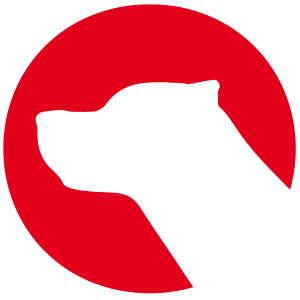
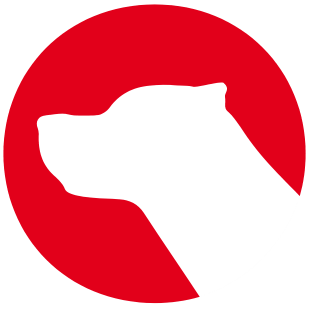
More art changes and adding a documentation topic that links our art

diff --git a/Docs/Logos.md b/Docs/Logos.md
@@ -1,0 +1,115 @@
+# KavaDocs Logos and Art Assets
+
+## Color Definitions
+
+Standard CSS Color definition:
+
+```css
+{
+    color: #E2001A; // KavaDocs Red
+    color: #1A181C; // KavaDocs Black
+    color: #00ADEE; // KavaDocs Blue
+}
+```
+
+## Site Icon
+
+<div style="background: repeating-linear-gradient(45deg, #dddddd, #dddddd 10px, #eeeeee 10px, #eeeeee 20px); padding: 20px;">
+
+![](Assets/SiteIcon.png)
+
+</div>
+
+## Square Head Logo - Black
+
+<div style="background: repeating-linear-gradient(45deg, #dddddd, #dddddd 10px, #eeeeee 10px, #eeeeee 20px); padding: 20px;">
+
+![](Assets/kavadocs-head-black-600.png)![](Assets/kavadocs-head-black-300.png)![](Assets/kavadocs-head-black-150.png)
+
+</div>
+
+## Square Head Logo - Red
+
+<div style="background: repeating-linear-gradient(45deg, #dddddd, #dddddd 10px, #eeeeee 10px, #eeeeee 20px); padding: 20px;">
+
+![](Assets/kavadocs-head-red-600.png)![](Assets/kavadocs-head-red-300.png)![](Assets/kavadocs-head-red-150.png)
+
+</div>
+
+## Square Head Logo - White
+
+<div style="background: repeating-linear-gradient(45deg, #dddddd, #dddddd 10px, #eeeeee 10px, #eeeeee 20px); padding: 20px;">
+
+![](Assets/kavadocs-head-white-600.png)![](Assets/kavadocs-head-white-300.png)![](Assets/kavadocs-head-white-150.png)
+
+</div>
+
+## KavaDocs - 1 Line - Red/Black
+
+<div style="background: repeating-linear-gradient(45deg, #dddddd, #dddddd 10px, #eeeeee 10px, #eeeeee 20px); padding: 20px; margin-bottom: 20px;">
+
+![](Assets/kavadocs-red-black-1line-540.png)
+
+</div>
+
+<div style="background: repeating-linear-gradient(45deg, #dddddd, #dddddd 10px, #eeeeee 10px, #eeeeee 20px); padding: 20px;">
+
+![](Assets/kavadocs-red-black-1line-1080.png)
+
+</div>
+
+## KavaDocs - 2 Lines - Red/Black
+
+<div style="background: repeating-linear-gradient(45deg, #dddddd, #dddddd 10px, #eeeeee 10px, #eeeeee 20px); padding: 20px; margin-bottom: 20px;">
+
+![](Assets/kavadocs-red-black-2lines-540.png)
+
+</div>
+
+<div style="background: repeating-linear-gradient(45deg, #dddddd, #dddddd 10px, #eeeeee 10px, #eeeeee 20px); padding: 20px;">
+
+![](Assets/kavadocs-red-black-2lines-1080.png)
+
+</div>
+
+## KavaDocs - 2 Lines - Red/White
+
+<div style="background: repeating-linear-gradient(45deg, #dddddd, #dddddd 10px, #eeeeee 10px, #eeeeee 20px); padding: 20px; margin-bottom: 20px;">
+
+![](Assets/kavadocs-red-white-2lines-540.png)
+
+</div>
+
+<div style="background: repeating-linear-gradient(45deg, #dddddd, #dddddd 10px, #eeeeee 10px, #eeeeee 20px); padding: 20px;">
+
+![](Assets/kavadocs-red-white-2lines-1080.png)
+
+</div>
+
+## KavaDocs.com - 1 Line - Red/Black
+
+<div style="background: repeating-linear-gradient(45deg, #dddddd, #dddddd 10px, #eeeeee 10px, #eeeeee 20px); padding: 20px; margin-bottom: 20px;">
+
+![](Assets/kavadocscom-red-black-1line-540.png)
+
+</div>
+
+<div style="background: repeating-linear-gradient(45deg, #dddddd, #dddddd 10px, #eeeeee 10px, #eeeeee 20px); padding: 20px;">
+
+![](Assets/kavadocscom-red-black-1line-1080.png)
+
+</div>
+
+## KavaDocs.com - 2 Lines - Red/Black
+
+<div style="background: repeating-linear-gradient(45deg, #dddddd, #dddddd 10px, #eeeeee 10px, #eeeeee 20px); padding: 20px; margin-bottom: 20px;">
+
+![](Assets/kavadocscom-red-black-2lines-540.png)
+
+</div>
+
+<div style="background: repeating-linear-gradient(45deg, #dddddd, #dddddd 10px, #eeeeee 10px, #eeeeee 20px); padding: 20px;">
+
+![](Assets/kavadocscom-red-black-2lines-1080.png)
+
+</div>
